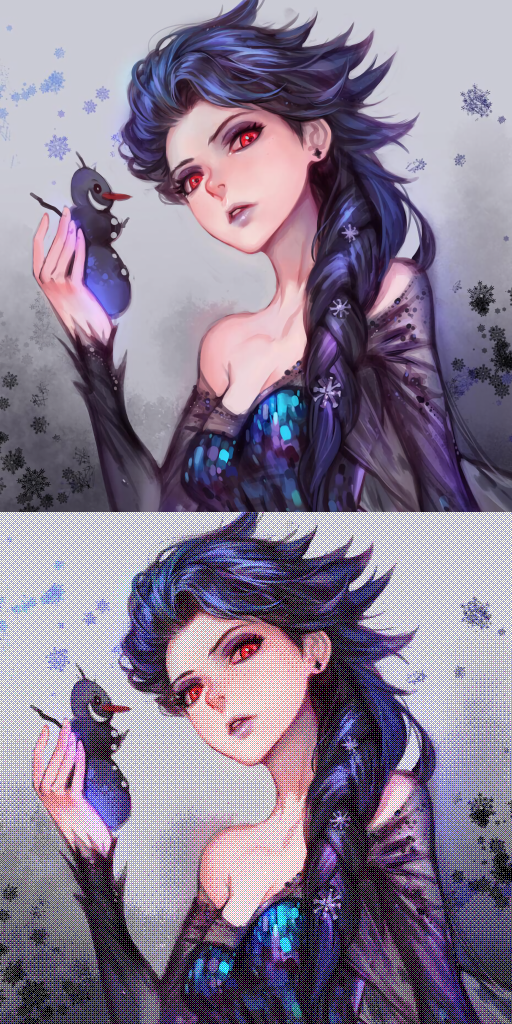
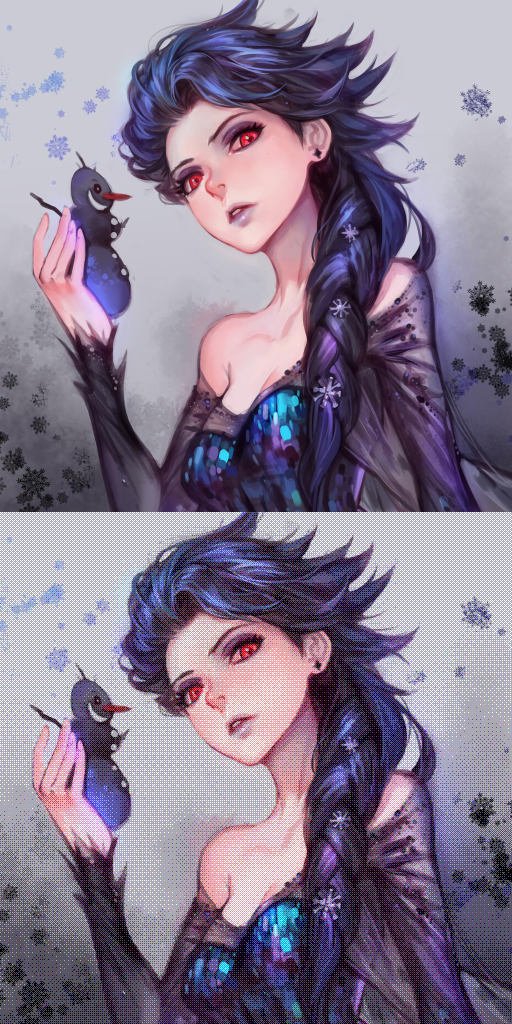
apparently i was misunderstanding the wikipedia article

Changed region(s): [[0.0, 0.5, 1.0, 1.0], [0.0, 0.5625, 0.125, 0.625], [0.0938, 0.625, 0.125, 0.6562]]

diff --git a/README.md b/README.md
@@ -2,7 +2,7 @@
 Bayer ordered dithering shader for LibGDX
 
 
-You can configure "steps" of each R, G, and B channel to your taste. Look for the line ```vec4 rgbaCounts = vec4(4.0, 4.0, 4.0, 1.0);```
+You can configure "steps" of each R, G, and B channel to your taste. Look for the uniforms of '[r,g,b,a]count'
 
 
 Following preview is generated with 4-step RGB, the EGA palette.
